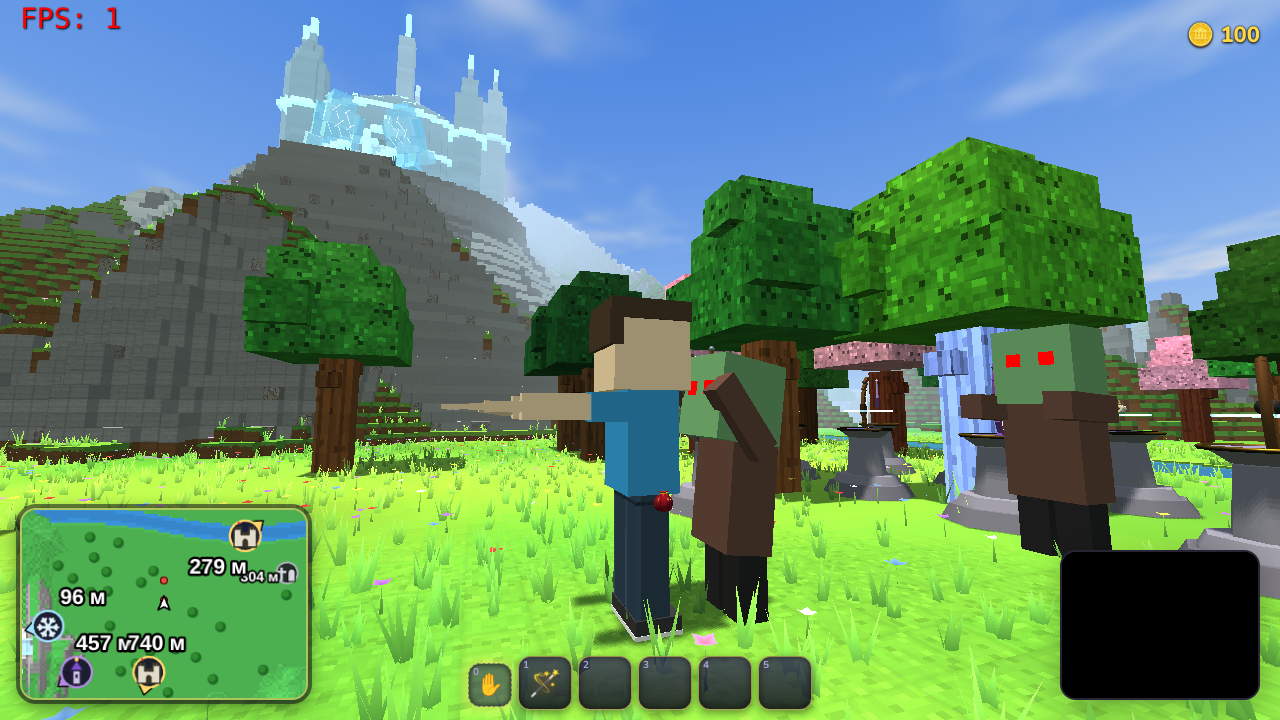
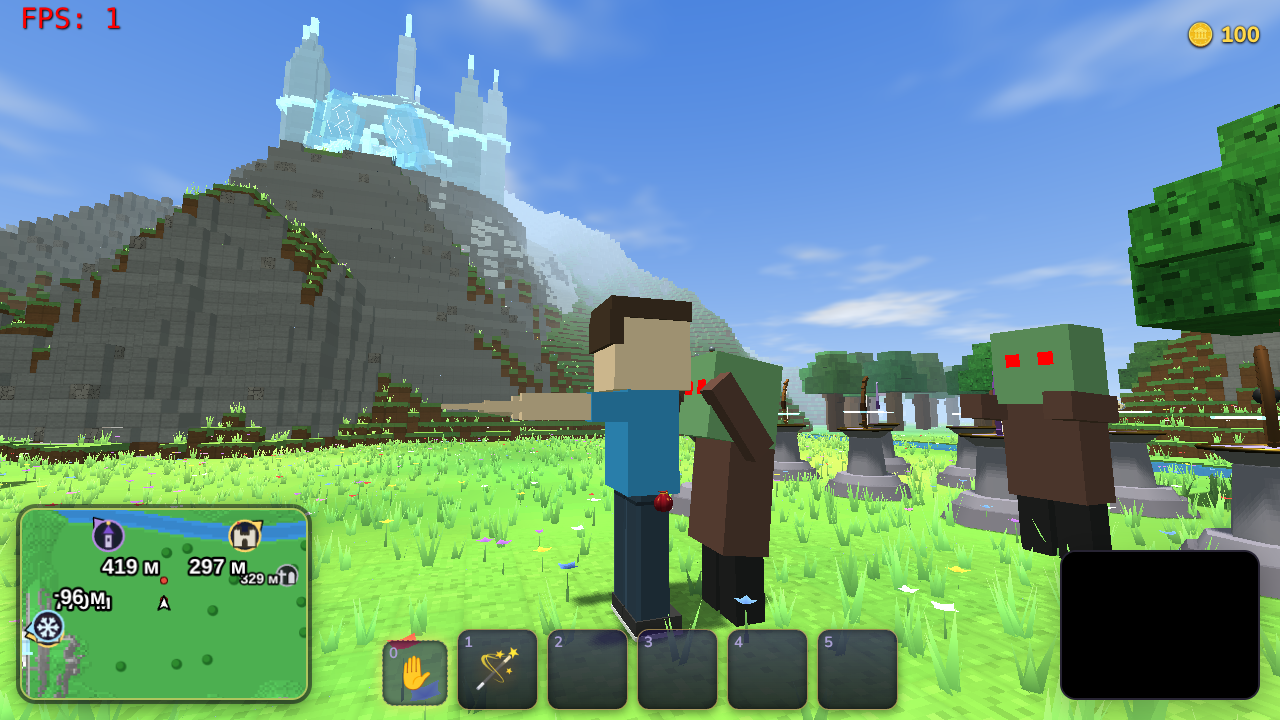
Zombies: one at a time and rarely, never by day on the open ground; they wander, notice, go round walls
- ZombieSpawn: after one comes out the next no sooner than 80–140 s, never within 18 m of another zombie
  (Creative's slider too); a cave with no dark room in reach — another one round the player
- cave chests: no more rings of 2–4 sleeping zombies (they stood in groups, lit chambers by day too) —
  one now and then, only in the real dark, awake and wandering
- senses: hears a player 10 m, sees 34 m with nothing between (lineOfSight), follows to 48 m, a blow wakes
  it; unnoticed it shambles about slowly and drifts towards the living (no standing like a post);
  Хардкор and maps as before (always after you)
- walls, rocks, pedestals: it feels ahead with its body's width and goes round on one side
- tests: day 0 new / night one at a time; a night zombie 45 m off reaches and hits within a minute;
  wandering; round a wall

Claude-Session: https://claude.ai/code/session_01MYgzWiB9jqrexMD9rLcb8c

diff --git a/src/game/Game.js b/src/game/Game.js
@@ -124,7 +124,7 @@ import { HandBlocks } from './HandBlocks.js';
 import { SPELL_PHYSICS, blastPush } from './Impact.js';
 import { ManaCrystals } from './ManaCrystals.js';
 import { HouseWards, isWardSpell, WARD_NAMES, keepIn } from './HouseWards.js';
-import { ZombieSpawn, worldLights, litAt, inSunlight } from './ZombieSpawn.js';
+import { ZombieSpawn, worldLights, litAt, inSunlight, ZSPAWN, lightLevel } from './ZombieSpawn.js';
 import { HouseMagic } from './HouseMagic.js';
 import { CastleMagic } from './CastleMagic.js';
 import { IceMagic } from './IceMagic.js';
@@ -153,6 +153,8 @@ const MANA_LATER = new Set(['CreatePlanet', 'PlanetLiquidation', 'EnlargePlanet'
 const PLAYER_RADIUS = 0.48;
 export const DAY_CYCLE_MS = 24 * 60 * 1000;
 const ZOMBIE_RADIUS = 0.88;
+/** What a zombie notices: hears a player this near (m), sees him this far with nothing between, follows him this far. */
+export const ZSENSE = { HEAR: 10, SEE: 34, LOSE: 48, ROAM: 7, SCENT: 90 }; // (SCENT: it drifts towards the living this near)
 const BLOCK_COLORS = { [BLOCK.GRASS]: 0x4CAF50, [BLOCK.DIRT]: 0x7a5230, [BLOCK.STONE]: 0x8a8a8a, [BLOCK.SNOW]: 0xf2f6f8 };
 
 const _v1 = new THREE.Vector3();
@@ -644,7 +646,9 @@ export class Game {
      * thrown in, they don't breathe and don't float — they trudge along the bottom, slowly (CreatureSwim.js).
      */
     _zombieStep(me, p, ux, uz, d, speed, dt) {
-        const st = crowdStep(this, me, p, ux, uz, d, { r: BODY_R.zombie * (me.sizeK || 1), speed, dt });
+        let st = crowdStep(this, me, p, ux, uz, d, { r: BODY_R.zombie * (me.sizeK || 1), speed, dt });
+        if (!st) return st;
+        st = this._zombieRound(me, p, st, dt);
         if (!st) return st;
         const t = this.terrain?.data;
         if (!t) return st;
@@ -652,6 +656,38 @@ export class Game {
         if (deepAt(t, p.x, p.z, feet)) { const o = this._zStep || (this._zStep = { x: 0, z: 0 }); o.x = st.x * 0.45; o.z = st.z * 0.45; return o; }
         if (deepAt(t, p.x + st.x * 0.9, p.z + st.z * 0.9, feet)) return null; // (the bank: it stops at the water)
         return st;
+    }
+
+    /**
+     * A wall, a rock, a pedestal, a chest in its way (not a body — the crowd sees those): it feels ahead and goes
+     * round, keeping to the side it chose for a while (no dithering at a corner). A step of one block it climbs.
+     */
+    _zombieRound(z, p, st, dt) {
+        const c = this.collision;
+        if (!c?.pointBlocked) return st;
+        const feet = p.y - z.gOff;
+        const R = 0.5 * (z.sizeK || 1); // (its shoulders: the middle and both sides of the body feel ahead)
+        const shut = (dx, dz) => {
+            for (const k of [0.7, 1.3]) for (const w of [0, R, -R]) {
+                const x = p.x + dx * k - dz * w, y = p.z + dz * k + dx * w;
+                if (c.pointBlocked(x, feet + 1.3, y) || c.pointBlocked(x, feet + 2.3, y)) return true;
+            }
+            return false;
+        };
+        z._sideT = Math.max(0, (z._sideT || 0) - dt);
+        if (!shut(st.x, st.z) && !(z._sideT > 0)) return st;
+        const o = z._round || (z._round = { x: 0, z: 0 });
+        const side = z._side || (Math.random() < 0.5 ? 1 : -1);
+        for (const sg of [side, -side]) for (const a of [0.5, 0.9, 1.3, 1.7, 2.2]) { // (its side first, all the way round it)
+            const ca = Math.cos(a * sg), sa = Math.sin(a * sg), dx = st.x * ca - st.z * sa, dz = st.x * sa + st.z * ca;
+            if (shut(dx, dz)) continue;
+            if (!(z._sideT > 0) || sg !== z._side) { z._side = sg; z._sideT = 1.2; }
+            o.x = dx; o.z = dz;
+            return o;
+        }
+        if (!shut(st.x, st.z)) { z._sideT = 0; return st; }
+        z._side = -side; // (shut all round on this side: next time the other way)
+        return null;
     }
 
     _createZombie(pos, id = null) {
@@ -727,6 +763,7 @@ export class Game {
     /** Authoritative damage. `by` = player id that dealt it (for kill counting). */
     damageZombie(z, amount, isWeapon, dir, by, hit = null) {
         if (z.isDead) return null;
+        z.hunting = true; // (a blow: it turns on whoever is near — _zombieSenses)
         // my spells with a wand in the hand hit harder
         if (!isWeapon && by == null && this._lastSpell && performance.now() - this._lastSpell.at < 6000) amount *= this._lastSpell.pw;
         const res = z.takeDamage(amount, isWeapon, dir, Math.random, hit);
@@ -1048,14 +1085,13 @@ export class Game {
                     chest.cave = cv.id; // (put away again when the player is far — _unloadCaves)
                     this.chests.push(chest);
                     if (this._openedChests?.has(id)) chest.setOpenInstant();
-                    if (this.authority && this.config.mode === 'freeworld' && !cv.lair) {
-                        const n = 2 + ((cv.r + k) % 3);
-                        for (let i = 0; i < n; i++) {
-                            const a = (i / n) * Math.PI * 2;
-                            const z = this._createZombie(new THREE.Vector3(sp.x + Math.cos(a) * 3, sp.y - 0.5, sp.z + Math.sin(a) * 3));
-                            z.setSleeping?.(true);
-                            z.caveGuard = cv.id; // (asleep by its chest: put away with it)
-                        }
+                    // (one zombie by a chest every other chamber — only in the real dark of the cave, never a group, never
+                    // a lit chamber by day; it wanders by its chest, not asleep standing — _zombieTarget)
+                    if (this.authority && this.config.mode === 'freeworld' && !cv.lair && (cv.r + k) % 2 === 0 && t.skyAt &&
+                        lightLevel(t.skyAt(sp.x, sp.y, sp.z), this.zombieSpawn?.night() ?? 0) <= ZSPAWN.DARK &&
+                        !this.zombies.some((o) => !o.isDead && Math.hypot(o.group.position.x - sp.x, o.group.position.z - sp.z) < ZSPAWN.APART)) {
+                        const z = this._createZombie(new THREE.Vector3(sp.x + 2.5, sp.y - 0.5, sp.z));
+                        z.caveGuard = cv.id; // (by its chest: put away with it)
                     }
                 });
             }
@@ -1125,7 +1161,7 @@ export class Game {
         }
         if (!gone.size) return;
         for (const id of gone) this._caveChests.delete(id);
-        if (this.authority) for (const z of [...this.zombies]) if (z.caveGuard != null && gone.has(z.caveGuard) && z.isSleeping && !z.isDead) this.removeZombie(z);
+        if (this.authority) for (const z of [...this.zombies]) if (z.caveGuard != null && gone.has(z.caveGuard) && !z.hunting && !z.isDead) this.removeZombie(z);
     }
 
     // ============================================================== players
@@ -2279,7 +2315,7 @@ export class Game {
             if (owner && zp.distanceToSquared(owner) > 16) return { pos: owner, follow: true, distSq: zp.distanceToSquared(owner) };
             return null;
         }
-        const player = this.nearestPlayer(zp);
+        const player = this._zombieSenses(z, this.nearestPlayer(zp));
         let best = null, bd = 10 * 10;
         for (const o of this.zombies) {
             if (!o.isThrall || o.isDead || o.isDying) continue;
@@ -2287,7 +2323,57 @@ export class Game {
             if (d < bd) { bd = d; best = o; }
         }
         if (best && (!player || bd < player.distSq)) return { pos: best.group.position, zombie: best, distSq: bd };
-        return player;
+        return player || this._zombieWander(z);
+    }
+
+    /**
+     * What a zombie notices (ZSENSE): it hears a player within HEAR m, sees one within SEE m if nothing is in between
+     * (a wall, a hill — Collision.lineOfSight); once after him, it keeps on up to LOSE m. A blow wakes it at once
+     * (damageZombie). Not noticed — null (it wanders). In «Хардкор» and on the maps they always know where you are.
+     */
+    _zombieSenses(z, player) {
+        if (!player) { z.hunting = false; return null; }
+        if (this.config.mode === 'survival' || this.config.map) { z.hunting = true; return player; }
+        const d = Math.sqrt(player.distSq);
+        if (z.hunting) { if (d < ZSENSE.LOSE) return player; z.hunting = false; }
+        if (d < ZSENSE.HEAR) { z.hunting = true; return player; }
+        if (d < ZSENSE.SEE) {
+            z._seeT = (z._seeT || 0) - (this._zdt || 1 / 60);
+            if (z._seeT <= 0) { // (it looks again every 0.3 s: a ray isn't cast every frame)
+                z._seeT = 0.3;
+                const p = z.group.position, q = player.pos;
+                z._saw = !this.collision?.lineOfSight || this.collision.lineOfSight(p.x, p.y + 1.1, p.z, q.x, q.y - 0.3, q.z, 0.8);
+            }
+            if (z._saw) { z.hunting = true; return player; }
+        }
+        return null;
+    }
+
+    /** Nobody noticed: it shambles about slowly round where it came out (a new spot every few seconds). */
+    _zombieWander(z) {
+        const p = z.group.position;
+        if (!z.home) z.home = { x: p.x, z: p.z };
+        const w = z.wander || (z.wander = { pos: new THREE.Vector3(), t: 0, wander: true, distSq: 0 });
+        const dt = this._zdt || 1 / 60;
+        w.t -= dt;
+        if (w.t <= 0 || Math.hypot(w.pos.x - p.x, w.pos.z - p.z) < ZOMBIE.STOP + 0.2) {
+            // (it scents the living: with a player within SCENT it shambles on his way — the next spot ahead of it,
+            // turned a little either side; nobody about — round where it came out)
+            const pl = this.nearestPlayer(p);
+            if (pl && pl.distSq < ZSENSE.SCENT ** 2) {
+                const a = Math.atan2(pl.pos.x - p.x, pl.pos.z - p.z) + (Math.random() - 0.5) * 1.6, r = 4 + Math.random() * 5;
+                w.pos.set(p.x + Math.sin(a) * r, p.y, p.z + Math.cos(a) * r);
+                z.home.x = w.pos.x; z.home.z = w.pos.z;
+            } else {
+                const a = Math.random() * Math.PI * 2, r = 2 + Math.random() * ZSENSE.ROAM;
+                w.pos.set(z.home.x + Math.cos(a) * r, p.y, z.home.z + Math.sin(a) * r);
+            }
+            w.t = 4 + Math.random() * 6; // (s; a pause before it sets off)
+            w.rest = 1 + Math.random() * 3;
+        }
+        if (w.rest > 0) { w.rest -= dt; return null; } // (stands a moment, swaying — then goes on)
+        w.distSq = p.distanceToSquared(w.pos);
+        return w;
     }
 
     /** Another wizard's «Вайнд» reached me: blown away (no harm; a shield stops it). */
@@ -3489,6 +3575,7 @@ export class Game {
     }
 
     _updateZombies(dt) {
+        this._zdt = dt;
         const ch = this.character;
         const charPos = ch.group.position;
         for (let i = this.zombies.length - 1; i >= 0; i--) {
@@ -3544,7 +3631,8 @@ export class Game {
             // Whom: a servant of «Брейнрот» — the zombie / creature its master set it on; the others — the
             // players (and a servant zombie close by). Bites hurt in «Выживание», «Хардкор» and the maps;
             // in «Творческий» nobody is hurt (damageLocalPlayer), but it still swings.
-            if (!target || target.follow) continue;
+            z.pace = target?.wander ? 0.45 : 1; // (wandering: a slow shamble)
+            if (!target || target.follow || target.wander) continue;
             const reach = target.zombie || target.foe ? 0.3 : 0;
             z.attackCd = Math.max(0, (z.attackCd || 0) - dt);
             if (!z.isAttacking && z.attackCd <= 0 && z.reaches(target.pos, reach - 0.3)) { // (it starts the swing well in reach)
@@ -3596,7 +3684,8 @@ export class Game {
             for (const z of this.zombies) if (!z.isDead && !z.dummy) live++;
             // (the slider: how many there may be — but they too come only out of the dark: a cave, the night;
             // by day on the open ground none comes, as in «Выживание» — ZombieSpawn.trySpawn)
-            if (live < desired && Math.random() < 0.02 && !this.isDeadLocal) this.zombieSpawn?.trySpawn(this.character.group.position, undefined, undefined, true);
+            const zs = this.zombieSpawn;
+            if (zs && live < desired && !(zs._gap > 0) && Math.random() < 0.02 && !this.isDeadLocal && zs.trySpawn(this.character.group.position, undefined, undefined, true)) zs._gap = ZSPAWN.GAP[0] + Math.random() * (ZSPAWN.GAP[1] - ZSPAWN.GAP[0]); // (one at a time, as in «Выживание»)
         } else if (this.config.mode === 'survival') {
             let live = 0;
             for (const z of this.zombies) if (!z.isDead) live++;

diff --git a/src/ui/Codex.js b/src/ui/Codex.js
@@ -457,13 +457,13 @@ export const MECHANICS = [
         '🌍 Выживание — бесконечный мир со здоровьем, маной, сундуками, свитками, замками и дуэлями с друзьями.',
         '🗺 Карты — готовые карты из «Редактора карт»: пройдите до финиша.',
     ] },
-    { icon: '🧟', title: 'Где появляются зомби', lead: 'Зомби выходят из темноты — и днём, и ночью, лишь бы было темно.', points: [
-        'Больше всего их в пещерах: в тёмных туннелях и залах (не у светлого входа). Подошли к пещере — зомби там точно встретятся; а у сундуков в глубине ещё и спят.',
+    { icon: '🧟', title: 'Где появляются зомби', lead: 'На открытой земле зомби появляются только ночью; днём — лишь в глубине тёмных пещер. И всегда по одному.', points: [
+        'Больше всего их в пещерах: в тёмных туннелях и залах (не у светлого входа). Подошли к пещере — зомби там встретится; иногда один бродит у сундука в глубине.',
         'Ночью, когда темно, изредка выходят и на открытую землю — вдали от вас, но не в замках, деревнях и не в воде. Днём не появляются ни на свету, ни в лёгкой тени деревьев и домов — только в настоящей темноте.',
         'Солнце их сжигает: днём под открытым небом (и в тени дерева) зомби дымится и через несколько секунд сгорает в пепел. Выманите его из пещеры на свет — или уходите в пещеру, и он пойдёт за вами.',
         'Зомби медленные, но упорные: идут к вам лицом вперёд, обходят друг друга и препятствия, подходят вплотную, поворачиваются, поднимают руки и бьют. Удар доходит, когда руки опускаются, — успели отойти, и он промахнулся. Подошёл метров на восемь — слышно, как он рычит.',
         'Никогда не появляются прямо рядом с вами и там, где светло: у костра, у света «Люмос» (в палочке или брошенного), у факелов ночной стражи. Свет — ваша защита.',
-        'Их не бывает слишком много: вокруг игрока — не больше трёх таких зомби, и приходят они нечасто. Ушли далеко — они снова уходят во тьму.',
+        'Приходят по одному и нечасто: следующий — через пару минут и в другом месте, вокруг игрока — не больше трёх. Пока вас не заметили, бродят; слышат вас метров за десять, видят — метров за тридцать, если ничего не мешает, и тогда идут к вам. Ударили его — сразу идёт на вас. Ушли далеко — они снова уходят во тьму.',
         'Так в «Выживании» и в «Творческом» (ползунок — сколько их может быть, но и там они приходят только из темноты; в «Творческом» удары не ранят). В «Хардкоре» — вечная ночь и толпы зомби, но и там они не выходят у огня и света.',
     ] },
 ];

diff --git a/src/game/ZombieSpawn.js b/src/game/ZombieSpawn.js
@@ -26,6 +26,9 @@ import { earthly } from '../world/Planets.js';
 export const ZSPAWN = {
     EVERY: 6, // s between the host's checks
     CAVE_NEAR: 60, // m: a cave system this near a player — he is «at a cave»
+    GAP: [80, 140], // s: after one zombie came out, the next one no sooner (the author: one at a time, not often —
+    // a night is 6 minutes: a few meetings a night, not a crowd)
+    APART: 18, // m: a new one never comes out by another zombie (one here, the next elsewhere)
     CAVE_CHANCE: 0.12, // a check brings a zombie in the cave's dark (the author: not so often)
     NIGHT_CHANCE: 0.04, // a check brings one on the open ground at night (by day on the open ground: never)
     DARK: 0.12, // a place this dark or darker (light 0…1): real darkness — ~10 blocks into a cave by day, or the night
@@ -118,15 +121,16 @@ export class ZombieSpawn {
             if (!z.fromDark || z.isDead || z.isThrall) continue;
             if (!ps.some((p) => Math.hypot(p.x - z.group.position.x, p.z - z.group.position.z) < ZSPAWN.FORGET)) g.removeZombie(z);
         }
+        this._gap = (this._gap || 0) - dt;
         this._t -= dt;
-        if (this._t > 0) return;
+        if (this._t > 0 || this._gap > 0) return;
         this._t = ZSPAWN.EVERY;
         const dark = g.zombies.filter((z) => z.fromDark && !z.isDead);
         if (dark.length >= ZSPAWN.CAP) return;
         const P = ps[Math.floor(Math.random() * ps.length)];
         if (dark.filter((z) => Math.hypot(P.x - z.group.position.x, P.z - z.group.position.z) < ZSPAWN.NEAR).length >= ZSPAWN.NEAR_CAP) return;
         const lights = worldLights(g);
-        this.trySpawn(P, ps, lights);
+        if (this.trySpawn(P, ps, lights)) this._gap = rnd(...ZSPAWN.GAP); // (one — the next one much later)
     }
 
     /** (host) One check round a player: a cave first, else the open night. → the zombie or null. */
@@ -138,8 +142,10 @@ export class ZombieSpawn {
             const first = caves.find((s) => !this._seenCaves.has(s.id));
             for (const s of caves) this._seenCaves.add(s.id);
             if (force || first || Math.random() < ZSPAWN.CAVE_CHANCE) {
-                const at = this.caveSpot(first || caves[Math.floor(Math.random() * caves.length)], P, ps, lights);
-                if (at) return this._make(at, 'cave');
+                // (the new system first; if it has no dark room in reach — another one round the player)
+                const order = caves.slice().sort(() => Math.random() - 0.5);
+                if (first) order.unshift(first);
+                for (const c of order.slice(0, 3)) { const at = this.caveSpot(c, P, ps, lights); if (at) return this._make(at, 'cave'); }
             }
         }
         if (this.night() > 0.6 && (force || Math.random() < ZSPAWN.NIGHT_CHANCE)) {
@@ -161,6 +167,7 @@ export class ZombieSpawn {
     /** Is this a place a zombie may come out at: far enough from every player, unlit? */
     _clear(x, y, z, ps, lights) {
         for (const p of ps) if (Math.hypot(p.x - x, p.y - y, p.z - z) < ZSPAWN.MIN_D) return false;
+        for (const o of this.game.zombies || []) if (!o.isDead && Math.hypot(o.group.position.x - x, o.group.position.z - z) < ZSPAWN.APART) return false; // (never in a group)
         return !litAt(lights, x, y, z);
     }
 

diff --git a/tests/unit/zombie-spawn.test.js b/tests/unit/zombie-spawn.test.js
@@ -42,7 +42,7 @@ test('light: the open sky by day is lit, the night and a cave are dark; a light 
 test('in a cave, by day: zombies do come — in the dark, not under the nose', () => {
     const g = fakeGame(inCave);
     const made = [];
-    for (let i = 0; i < 20; i++) { const z = g.zombieSpawn.trySpawn(inCave, [inCave], [], true); if (z) made.push(z); }
+    for (let i = 0; i < 20; i++) { const z = g.zombieSpawn.trySpawn(inCave, [inCave], [], true); if (z) { made.push(z); g.zombies.length = 0; } } // (one at a time: each check alone)
     assert.ok(made.length >= 10, `they come (${made.length}/20)`);
     for (const z of made) {
         const p = z.group.position;
@@ -68,7 +68,7 @@ test('on a meadow: none by day, now and then at night (far off)', () => {
     for (let i = 0; i < 10; i++) assert.equal(day.zombieSpawn.trySpawn(meadow, [meadow], [], true), null, 'not by day');
     const night = fakeGame(meadow, { night: 1 });
     let n = 0;
-    for (let i = 0; i < 10; i++) { const z = night.zombieSpawn.trySpawn(meadow, [meadow], [], true); if (z) { n++; assert.ok(Math.hypot(z.group.position.x - meadow.x, z.group.position.z - meadow.z) >= ZSPAWN.NIGHT_D[0] - 1); } }
+    for (let i = 0; i < 10; i++) { const z = night.zombieSpawn.trySpawn(meadow, [meadow], [], true); if (z) { n++; night.zombies.length = 0; assert.ok(Math.hypot(z.group.position.x - meadow.x, z.group.position.z - meadow.z) >= ZSPAWN.NIGHT_D[0] - 1); } }
     assert.ok(n >= 5, `at night (${n}/10)`);
 });
 
@@ -99,4 +99,17 @@ test('phoenixes: rare, and they never pile up as a player walks on', () => {
     P.pos.set(0, 0, 0);
     for (let s = 0; s < 3600; s += 5) ph._spawnTick(5);
     assert.equal(ph.list.length, 1);
+});
+
+test('the open ground: no new zombie by day at all; at night one at a time, much later each, never side by side', () => {
+    const day = fakeGame(meadow);
+    for (let s = 0; s < 600; s++) day.zombieSpawn.update(1); // (10 minutes of day)
+    assert.equal(day.zombies.length, 0, 'by day: none');
+    const night = fakeGame(meadow, { night: 1 });
+    const at = [];
+    for (let s = 0; s < 360; s++) { const n = night.zombies.length; night.zombieSpawn.update(1); if (night.zombies.length > n) at.push(s); } // (a 6-minute night)
+    assert.ok(at.length >= 1 && at.length <= 5, `a few a night (${at.length})`);
+    for (let i = 1; i < at.length; i++) assert.ok(at[i] - at[i - 1] >= ZSPAWN.GAP[0] - 1, 'one at a time, the next much later');
+    const zs = night.zombies;
+    for (let i = 0; i < zs.length; i++) for (let j = i + 1; j < zs.length; j++) assert.ok(zs[i].group.position.distanceTo(zs[j].group.position) >= ZSPAWN.APART - 1, 'not in a group');
 });

diff --git a/tests/unit/zombie-ai.test.js b/tests/unit/zombie-ai.test.js
@@ -148,3 +148,42 @@ test('no zombie comes out in a light daytime shade (a few blocks under a roof, a
     assert.ok(lightLevel(0.08, 0) <= ZSPAWN.DARK, 'deep in a cave: dark');
     assert.ok(lightLevel(0.7, 1) <= ZSPAWN.DARK, 'a shade at night: dark');
 });
+
+test('a night zombie out on the open ground (45 m off) shambles up, notices the player and hits him within a minute', () => {
+    const g = fakeGame();
+    const z = g._createZombie(new THREE.Vector3(30, GROUND + 1, 34));
+    let t = 0;
+    while (!g.hits.length && t < 60) { g.frameCount++; g._updateZombies(dt); t += dt; }
+    assert.ok(g.hits.length, `hit after ${t.toFixed(0)} s (at ${Math.hypot(z.group.position.x, z.group.position.z).toFixed(1)} m)`);
+    assert.ok(z.hunting);
+});
+
+test('nobody near: it wanders slowly (not standing like a post), does not hunt; a blow wakes it', () => {
+    const g = fakeGame();
+    g.character.group.position.set(300, GROUND + 2, 0);
+    const z = g._createZombie(new THREE.Vector3(0, GROUND + 1, 0));
+    let path = 0, prev = z.group.position.clone();
+    for (let i = 0; i < 30 / dt; i++) { g.frameCount++; g._updateZombies(dt); path += z.group.position.distanceTo(prev); prev.copy(z.group.position); }
+    assert.ok(path > 3, `it roams (${path.toFixed(1)} m in 30 s)`);
+    assert.ok(Math.hypot(z.group.position.x, z.group.position.z) < 15, 'round where it came out');
+    assert.ok(!z.hunting);
+    g.character.group.position.set(z.group.position.x + 20, GROUND + 2, z.group.position.z);
+    z.hunting = true; // (what damageZombie sets)
+    g.run(3);
+    assert.ok(Math.hypot(g.character.group.position.x - z.group.position.x, g.character.group.position.z - z.group.position.z) < 16, 'after the player now');
+});
+
+test('a wall in its way: it goes round, it does not push into it', () => {
+    const g = fakeGame();
+    g.character.group.position.set(0, GROUND + 2, 9);
+    g.collision.pointBlocked = (x, y, z) => Math.abs(x) < 3 && z > 3.5 && z < 4.5 && y < GROUND + 4; // (a wall 6 m wide)
+    const z = g._createZombie(new THREE.Vector3(0.3, GROUND + 1, 0));
+    let inWall = 0;
+    for (let i = 0; i < 25 / dt && !g.hits.length; i++) {
+        g.frameCount++; g._updateZombies(dt);
+        const p = z.group.position;
+        if (Math.abs(p.x) < 3 && p.z > 3.4 && p.z < 4.6) inWall++;
+    }
+    assert.equal(inWall, 0, 'never in the wall');
+    assert.ok(g.hits.length, `round it and at the player (at ${z.group.position.x.toFixed(1)}, ${z.group.position.z.toFixed(1)})`);
+});

diff --git a/src/entities/Zombie.js b/src/entities/Zombie.js
@@ -364,7 +364,7 @@ export class Zombie {
                 let walked = 0;
                 if (distance > stop && !this.isAttacking) {
                     if (distance > 0.1) _v.divideScalar(distance);
-                    const sp = this.speed * slowFactor(this);
+                    const sp = this.speed * slowFactor(this) * (this.pace ?? 1); // (pace: slower when only wandering)
                     // round the others on its way (zombies, people, beasts — Crowd.js; the host's game sets it)
                     const st = this.steer ? this.steer(this, pos, _v.x, _v.z, distance - stop, sp, dt) : _v;
                     if (st) {
